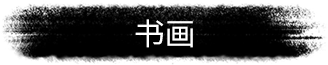
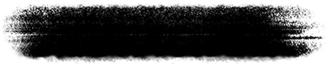
文字

Changed region(s): [[0.3963, 0.2769, 0.6098, 0.7385]]

diff --git a/src/components/slider/Slider.vue b/src/components/slider/Slider.vue
@@ -51,19 +51,23 @@
         sliders: [
           {
             img: 'http://www.xinzhimin.xyz/sort-class-book.png',
-            page: 'bookList'
+            page: 'bookList',
+            name: '图书'
           },
           {
             img: 'http://www.xinzhimin.xyz/sort-class-quyi.png',
-            page: 'quyiList'
+            page: 'quyiList',
+            name: '曲艺'
           },
           {
             img: 'http://www.xinzhimin.xyz/sort-class-dance.png',
-            page: 'danceList'
+            page: 'danceList',
+            name: '舞蹈'
           },
           // {
           //   img: 'http://www.xinzhimin.xyz/sort-class-painting.png',
-          //   page: 'paintingList'
+          //   page: 'paintingList',
+          //   name: '书画'
           // }
         ],
         imgWidth: 300,
@@ -95,13 +99,16 @@
         }, ()=>{
           // 右滑
           self.move(self.pageW, 1, self.speed);
+          self.$emit('titleName', self.sliders[self.currentIndex-1].name);
         }, ()=>{
           // 下滑
         }, ()=>{
           // 左滑
           self.move(self.pageW, -1, self.speed);
+          self.$emit('titleName', self.sliders[self.currentIndex-1].name);
         });
-      
+
+        self.$emit('titleName', self.sliders[self.currentIndex-1].name);
     },
     methods: {
       goPage(index){

diff --git a/src/components/sort/sort.js b/src/components/sort/sort.js
@@ -5,7 +5,8 @@ export default {
     components: { Slider },
     data() {
         return {
-            finTimer: false
+            finTimer: false,
+            title: '书画'
         }
     },
     mounted() {
@@ -23,6 +24,9 @@ export default {
         toHomePage() {
             this.$router.push({ path: '/' });
             // this.$router.push({ path: 'bookDetail', query: { pdfid: item.pdfid } });
+        },
+        getTitle(name) {
+            this.title = name;
         }
     }
 }

diff --git a/src/components/sort/Sort.vue b/src/components/sort/Sort.vue
@@ -5,11 +5,11 @@
         <header>
             <div class="bg-bamboo"></div>
             <div class="theme"></div>
-            <div class="title"></div>
+            <div class="title">{{title}}</div>
         </header>
         <div class="content">
             <div class="content-wrap">
-                <slider></slider>
+                <slider @titleName="getTitle"></slider>
             </div>
             <div class="tips">
                 << <a>左右轮播选择板块参观</a>>>

diff --git a/src/components/sort/sort.css b/src/components/sort/sort.css
@@ -62,6 +62,9 @@
     background-position: center;
     background-size: contain;
     margin: 2rem auto 0;
+    line-height: 3.2rem;
+    color: #fff;
+    font-size: 1.4rem;
 }
 
 
